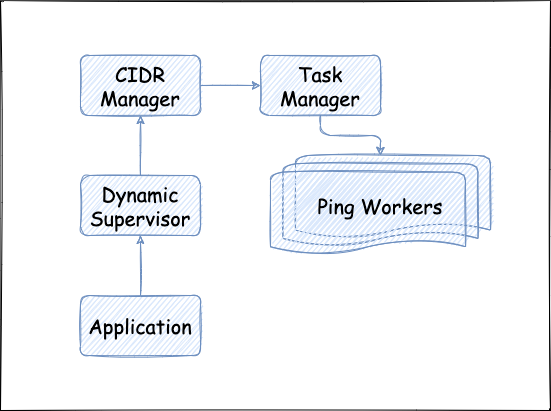
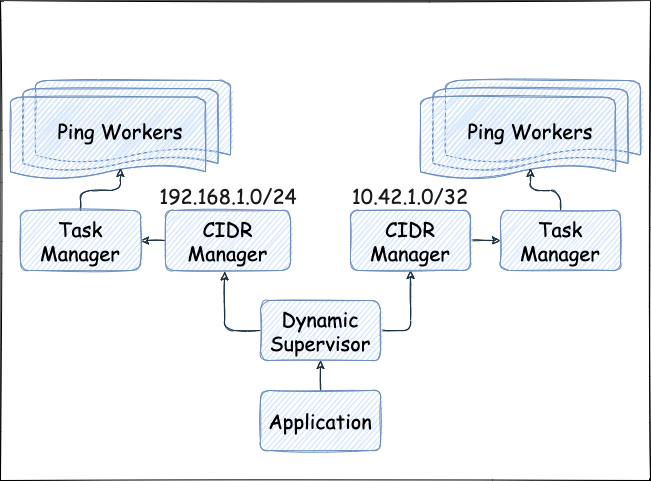
Docs: Update README

diff --git a/README.md b/README.md
@@ -1,9 +1,20 @@
-# PingMachine
+# The ping machine
 
-Simple demo project demonstrating a few basic OTP concepts such as Supervisors,
-GenServers and Tasks.
+The ping machine demonstrates some core Elixir and OTP programming concepts using
+Supervision trees, GenServers and Tasks to concurrently ping all hosts in a
+CIDR range.
 
 ![Ping Machine](ping_machine.png)
+
+**DISCLAIMER: We will not actually send any ping requests. This is trival to implement,
+but beside the point of this demo. We simply sleeps for a given amount of time and
+randomly choose if the "request" was successful or not.**
+
+Once the application starts, it will start a `DynamicSupervisor` ready to supervise ping jobs.
+For each CIDR range we want to ping, a "CIDR Manager" `GenServer` will start to
+keep track of which tasks succeeds and which fails. The "CIDR Manager" will run a `TaskSupervisor`,
+which will be responsible for actually running the ping tasks. All ping tasks will report their
+result back to the "CIDR Manager", which then can be queried for the outcome.
 
 ## Running the project
 
@@ -15,25 +26,25 @@ iex(1)> {:ok, pid} = PingMachine.start_ping("192.168.1.0/24")
 
 02:58:07.942 [info]  Started pinging all hosts in range 192.168.1.0/24
 {:ok, #PID<0.212.0>}
- [info]  Successfully pinged host 192.168.1.143
- [error] Failed to ping host 192.168.1.144
- [info]  Successfully pinged host 192.168.1.145
- [error] Failed to ping host 192.168.1.146
- [info]  Successfully pinged host 192.168.1.147
- [error] Failed to ping host 192.168.1.155
- [info]  Successfully pinged host 192.168.1.156
+[info]  Successfully pinged host 192.168.1.143
+[error] Failed to ping host 192.168.1.144
+[info]  Successfully pinged host 192.168.1.145
+[error] Failed to ping host 192.168.1.146
+[info]  Successfully pinged host 192.168.1.147
+[error] Failed to ping host 192.168.1.155
+[info]  Successfully pinged host 192.168.1.156
 
-iex(2)> PingMachine.get_successful_hosts pid
+iex(2)> PingMachine.get_successful_hosts(pid)
 ["192.168.1.212", "192.168.1.221", "192.168.1.18", "192.168.1.46",
  "192.168.1.25", "192.168.1.222", "192.168.1.132", "192.168.1.91",
  "192.168.1.89", "192.168.1.185", "192.168.1.39", "192.168.1.193",
  "192.168.1.47", "192.168.1.35", ...]
 
-iex(3)> PingMachine.get_failed_hosts pid
+iex(3)> PingMachine.get_failed_hosts(pid)
 ["192.168.1.73", "192.168.1.123", "192.168.1.106", "192.168.1.196",
  "192.168.1.234", "192.168.1.202", "192.168.1.24", "192.168.1.201",
  "192.168.1.253", "192.168.1.238", "192.168.1.170", "192.168.1.146", ...]
 
- iex(4)> PingMachine.stop_ping pid
+iex(4)> PingMachine.stop_ping(pid)
 :ok
   ```
